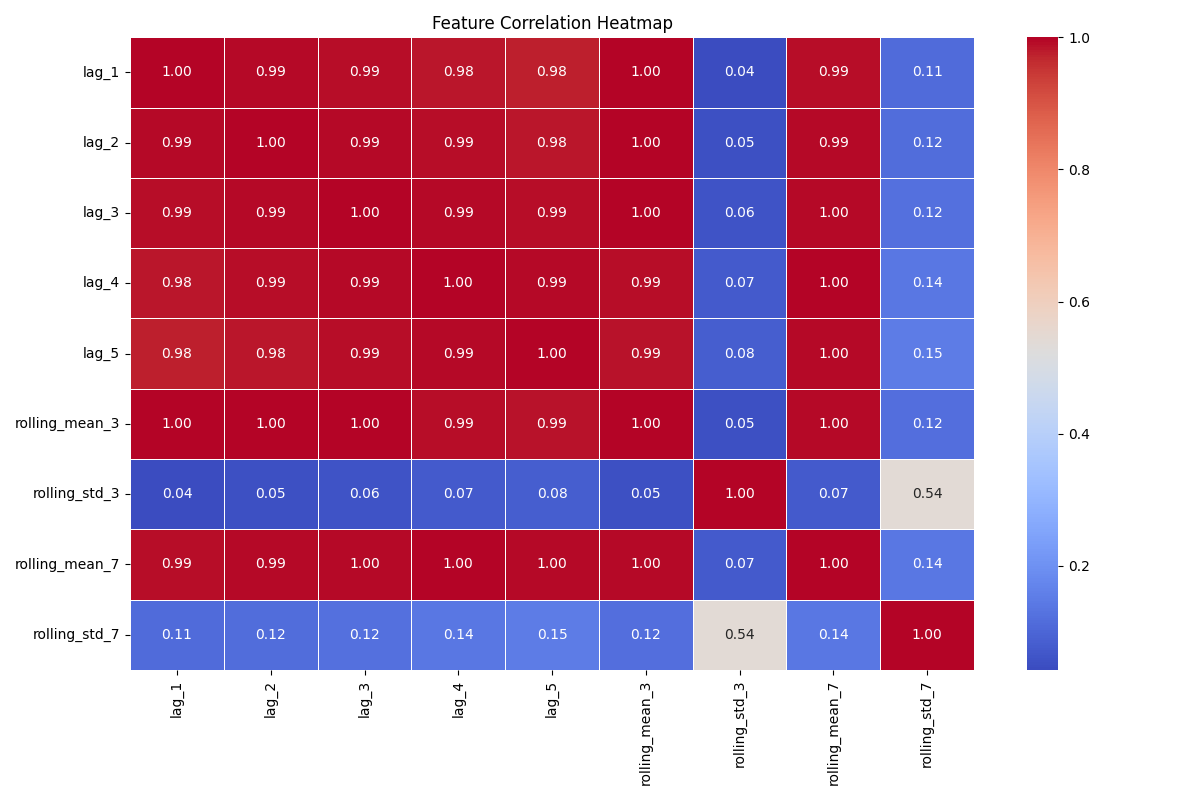
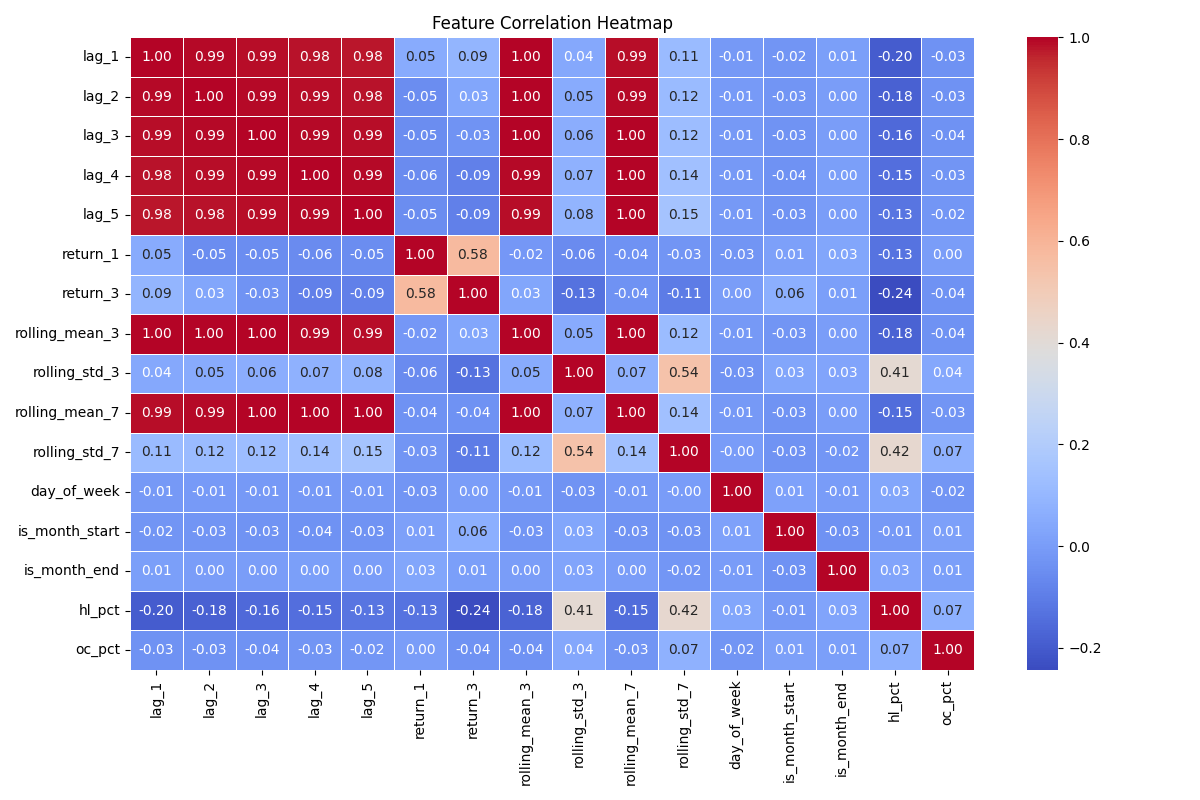
Run 5

diff --git a/src/feature_engineering.py b/src/feature_engineering.py
@@ -31,7 +31,10 @@ def new_features() -> None:
         file_path = "data/raw/stock_data.csv"
         df = pd.read_csv(file_path)
         logger.debug("Data loaded from: %s", file_path)
-
+        
+        df["Open"] = pd.to_numeric(df["Open"], errors="coerce")
+        df["High"] = pd.to_numeric(df["High"], errors="coerce")
+        df["Low"] = pd.to_numeric(df["Low"], errors="coerce")
         df["Close"] = pd.to_numeric(df["Close"], errors="coerce")
 
         df["lag_1"] = df["Close"].shift(1)  #Closing price 1 day prior
@@ -39,11 +42,20 @@ def new_features() -> None:
         df["lag_3"] = df["Close"].shift(3)  #Closing price 3 days prior
         df["lag_4"] = df["Close"].shift(4)  #Closing price 4 days prior
         df["lag_5"] = df["Close"].shift(5)  #Closing price 5 days prior
+        df["return_1"] = df["Close"].pct_change(1).shift(1)     # % change from previous day
+        df["return_3"] = df["Close"].pct_change(3).shift(1)     # % change from 3 days ago
         df["rolling_mean_3"] = df["Close"].shift(1).rolling(window=3).mean()  #Average closing price from previous 3 days
         df["rolling_std_3"] = df["Close"].shift(1).rolling(window=3).std()
         df["rolling_mean_7"] = df["Close"].shift(1).rolling(window=7).mean()
         df["rolling_std_7"] = df["Close"].shift(1).rolling(window=7).std()
-        
+        df["Date"] = pd.to_datetime(df["Date"])
+        df["day_of_week"] = df["Date"].dt.dayofweek           # 0 = Monday, ..., 4 = Friday
+        df["is_month_start"] = df["Date"].dt.is_month_start.astype(int)
+        df["is_month_end"] = df["Date"].dt.is_month_end.astype(int)
+        df["hl_pct"] = (df["High"] - df["Low"]) / df["Close"]     # High-Low % range
+        df["oc_pct"] = (df["Close"] - df["Open"]) / df["Open"]    # Open-Close return
+
+
         df.dropna(inplace=True) #Dropping NaN values
         
         save_to = 'data/processed/stock_data_new.csv'

diff --git a/src/hyperparameter_tuning.py b/src/hyperparameter_tuning.py
@@ -66,21 +66,10 @@ def tune_model():
         return_train_score=True
     )
     
-    mlflow.set_experiment('Model_Tuning')
+    mlflow.set_experiment('Model_Tune')
 
-    with mlflow.start_run() as parent:
+    with mlflow.start_run():
         grid_search.fit(X_train, y_train)
-
-        # log all the child runs
-        for i in range(len(grid_search.cv_results_['params'])):
-
-            with mlflow.start_run(nested=True) as child:
-                mlflow.log_params(grid_search.cv_results_["params"][i])
-                mlflow.log_metrics({
-                    f"cv_mse_{i}": -grid_search.cv_results_['mean_test_mse'][i],
-                    f"cv_mae_{i}": -grid_search.cv_results_['mean_test_mae'][i],
-                    f"cv_r2_{i}": grid_search.cv_results_['mean_test_r2'][i],
-                })
 
         # Get best parameters
         best_params = grid_search.best_params_
@@ -117,8 +106,8 @@ def tune_model():
 
         # Log the best model
         mlflow.sklearn.log_model(model, "best_model")
-        mlflow.log_artifact("artifacts/correlation_heatmap.png")
-        mlflow.set_tag("Run", "1")
+    
+        mlflow.set_tag("Run", "5")
 
 if __name__ == "__main__":
     tune_model()

diff --git a/src/eda.py b/src/eda.py
@@ -36,7 +36,7 @@ def feature_correlation():
     df = pd.read_csv(file_path)
     logger.debug("Data loaded successfully from: %s", file_path)
 
-    X = df[["lag_1", "lag_2", "lag_3", "lag_4", "lag_5", "rolling_mean_3", "rolling_std_3", "rolling_mean_7", "rolling_std_7"]]
+    X = df[["lag_1", "lag_2", "lag_3", "lag_4", "lag_5", "return_1", "return_3", "rolling_mean_3", "rolling_std_3", "rolling_mean_7", "rolling_std_7", "day_of_week", "is_month_start", "is_month_end", "hl_pct", "oc_pct"]]
 
     # Compute correlation matrix
     corr_matrix = X.corr()
@@ -54,7 +54,7 @@ def feature_correlation():
     with mlflow.start_run():
         # Log the image
         mlflow.log_artifact("artifacts/correlation_heatmap.png")
-        mlflow.set_tag("Run", "1")
+        mlflow.set_tag("Run", "5")
         mlflow.log_param("num_features", X.shape[1])
 
 if __name__ == "__main__":

diff --git a/src/recent_stock_predictions.py b/src/recent_stock_predictions.py
@@ -38,7 +38,7 @@ def predict_last_15_days():
         model = joblib.load('models/best_model.pkl')
         logger.debug("Model loaded successfully")
 
-        X = df_last_15[["lag_1", "lag_2", "lag_3", "lag_4", "lag_5", "rolling_mean_3", "rolling_std_3", "rolling_mean_7", "rolling_std_7"]]
+        X = df_last_15[["lag_1", "lag_2", "lag_3", "lag_4", "lag_5", "return_1", "return_3", "rolling_mean_3", "rolling_std_3", "rolling_mean_7", "rolling_std_7", "day_of_week", "is_month_start", "is_month_end", "hl_pct", "oc_pct"]]
         y_pred = model.predict(X)
 
         log_file = "monitoring/predictions_log.csv"

diff --git a/src/data_preprocess.py b/src/data_preprocess.py
@@ -36,7 +36,7 @@ def split_dataset() -> None:
 
         train_size = int(len(df) * 0.8)
 
-        X = df[["lag_1", "lag_2", "lag_3", "lag_4", "lag_5", "rolling_mean_3", "rolling_std_3", "rolling_mean_7", "rolling_std_7"]]
+        X = df[["lag_1", "lag_2", "lag_3", "lag_4", "lag_5", "return_1", "return_3", "rolling_mean_3", "rolling_std_3", "rolling_mean_7", "rolling_std_7", "day_of_week", "is_month_start", "is_month_end", "hl_pct", "oc_pct"]]
         y = df["Close"]
 
         X_train, X_test = X.iloc[:train_size], X.iloc[train_size:]

diff --git a/src/model_evaluation.py b/src/model_evaluation.py
@@ -51,7 +51,7 @@ def evaluate_model():
             mlflow.log_metric('MSE', mse)
             mlflow.log_metric('R2', r2)
 
-            mlflow.set_tag("Run", "1")
+            mlflow.set_tag("Run", "5")
     except Exception as e:
         logger.error("Error occurred while evaluating the model: %s", e)
         raise

diff --git a/src/monitoring_plot.py b/src/monitoring_plot.py
@@ -21,7 +21,7 @@ def plot_predictions():
         plt.savefig("monitoring/pred_vs_actual.png")
         # plt.show()
         mlflow.log_artifact("monitoring/pred_vs_actual.png")
-        mlflow.set_tag("Run", "1")
+        mlflow.set_tag("Run", "5")
 
     
 
